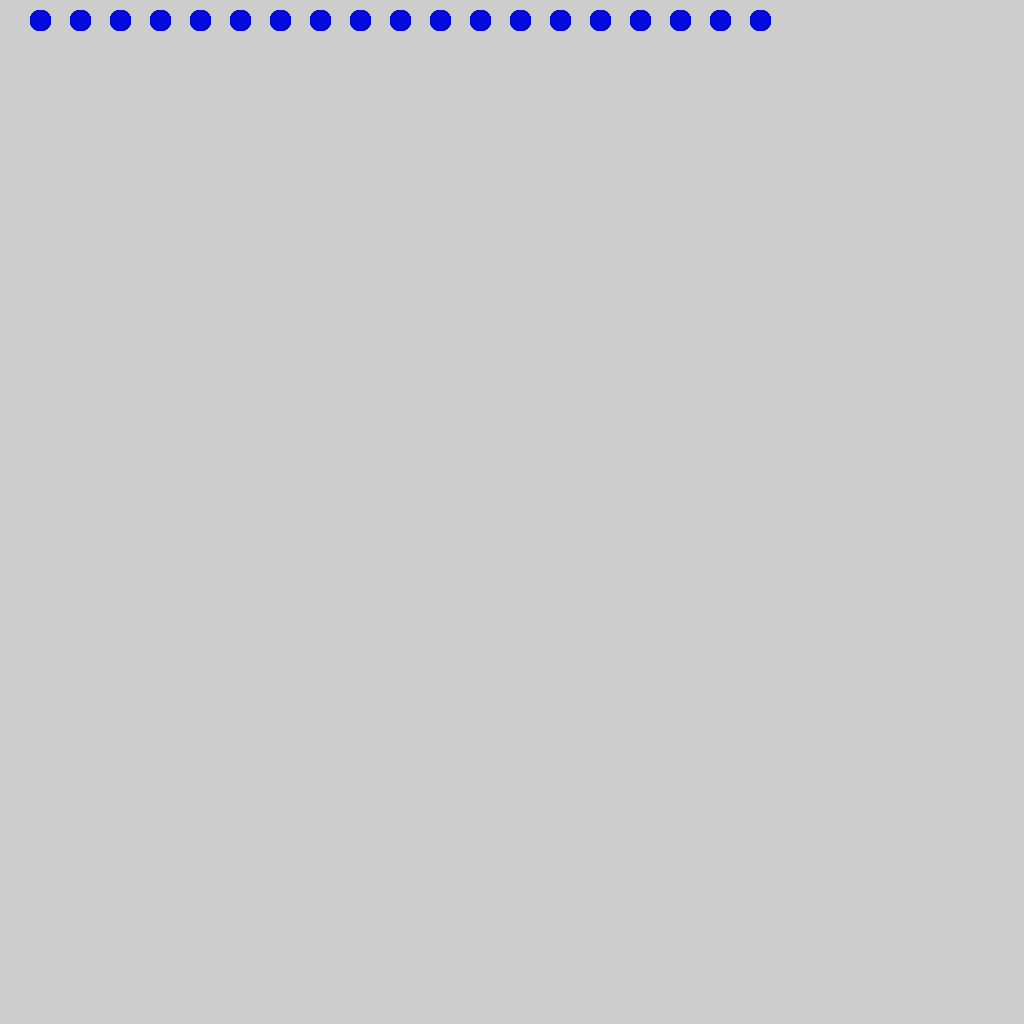
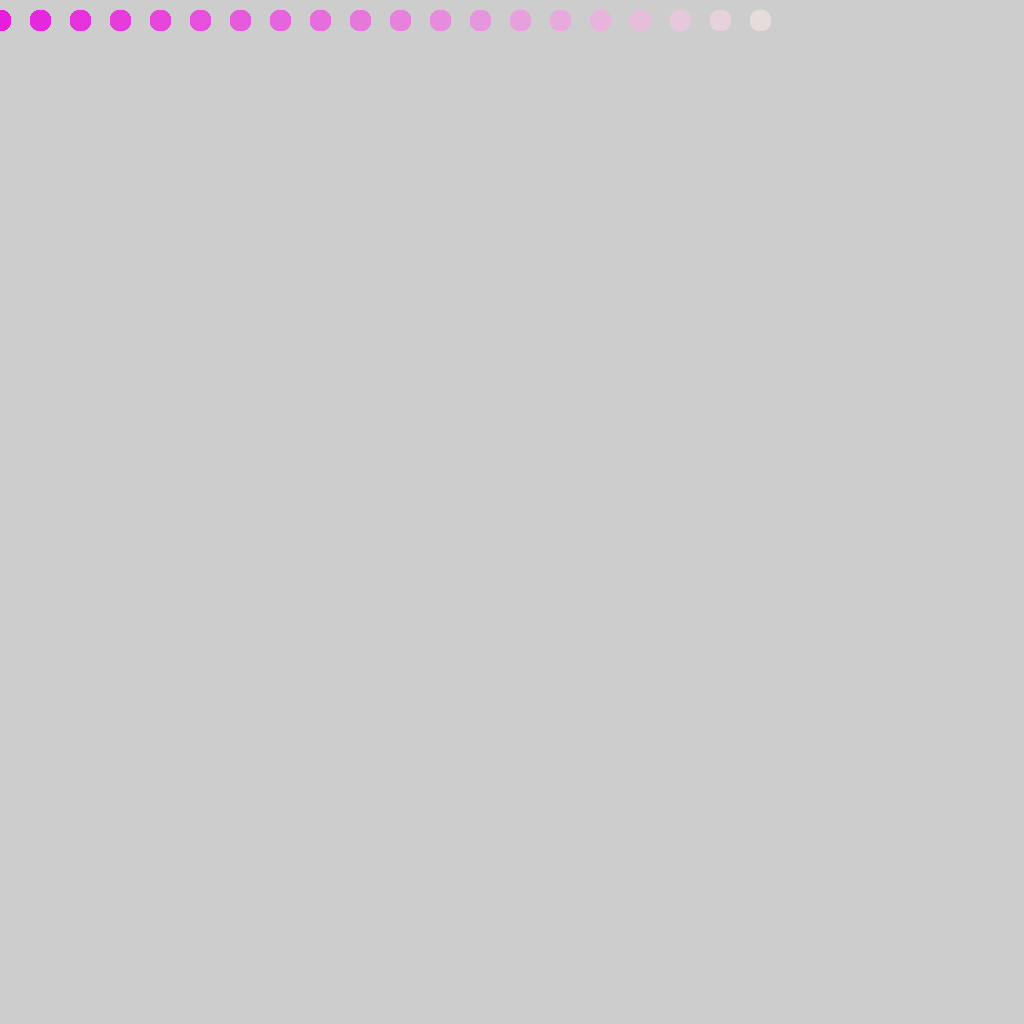
First attempt at creating a gradient

Changed region(s): [[0.0, 0.0, 0.75, 0.0312]]

diff --git a/src/HomeWork1App.cpp b/src/HomeWork1App.cpp
@@ -71,7 +71,6 @@ void HomeWork1App::drawCircle(uint8_t* pixels, int center_x, int center_y, int r
 			
 			int dist = (int)sqrt((double)((x-center_x)*(x-center_x) + (y-center_y)*(y-center_y)));
 			if(dist <= r){
-					 
 					pixels[3*(x + y*kTextureSize)] =  c.r;
 					pixels[3*(x + y*kTextureSize)+1] = c.g;
 					pixels[3*(x + y*kTextureSize)+2] =  c.b;
@@ -108,7 +107,6 @@ void HomeWork1App::update()
 	int green = (rand() % 200 + 50);
 
 	Color8u fill1 = Color8u(red,green,blue);
-	Color8u c = Color8u(0,10,220);
 
 	//creates random dimension for each rectangle.
 	int xValue = (rand() % 400 + 50);
@@ -119,11 +117,36 @@ void HomeWork1App::update()
 	//draws the rectangles.
 	drawRectangles(dataArray,xValue,yValue,width,height, fill1);
 
-	for(int x = 10; x<800; x++){
-		if(x % 40 ==0){
-	drawCircle(dataArray, x, 20, 10, c);
+
+	//Variable initialization needed to create the gradient circles
+	Color8u circleColor = Color8u(0,10,220);
+
+	//Fullfils the gradient requirment inside the circles.
+	
+	if(circleColor.r<255) circleColor.r = circleColor.r + 10;
+	if(circleColor.r>255) circleColor.r = circleColor.r - 10;
+	if(circleColor.b<255) circleColor.r = circleColor.b + 10;
+	if(circleColor.b>255) circleColor.r = circleColor.b - 10;
+	if(circleColor.g<255) circleColor.g = circleColor.g + 10;
+	if(circleColor.g>255) circleColor.g = circleColor.g - 10;
+
+
+	//Draws a row of circles.
+	int x = 0;
+	while(x<800){
+		
+	//Fullfils the gradient requirment inside the circles.
+	
+	if(circleColor.r<255) circleColor.r = circleColor.r + 10;
+	if(circleColor.r>255) circleColor.r = circleColor.r - 10;
+	if(circleColor.b<255) circleColor.r = circleColor.b + 10;
+	if(circleColor.b>255) circleColor.r = circleColor.b - 10;
+	if(circleColor.g<255) circleColor.g = circleColor.g + 10;
+	if(circleColor.g>255) circleColor.g = circleColor.g - 10;
+	drawCircle(dataArray, x, 20, 10, circleColor);
+	x = x+40;
 		}
-	}
+	
 	
 	
 
